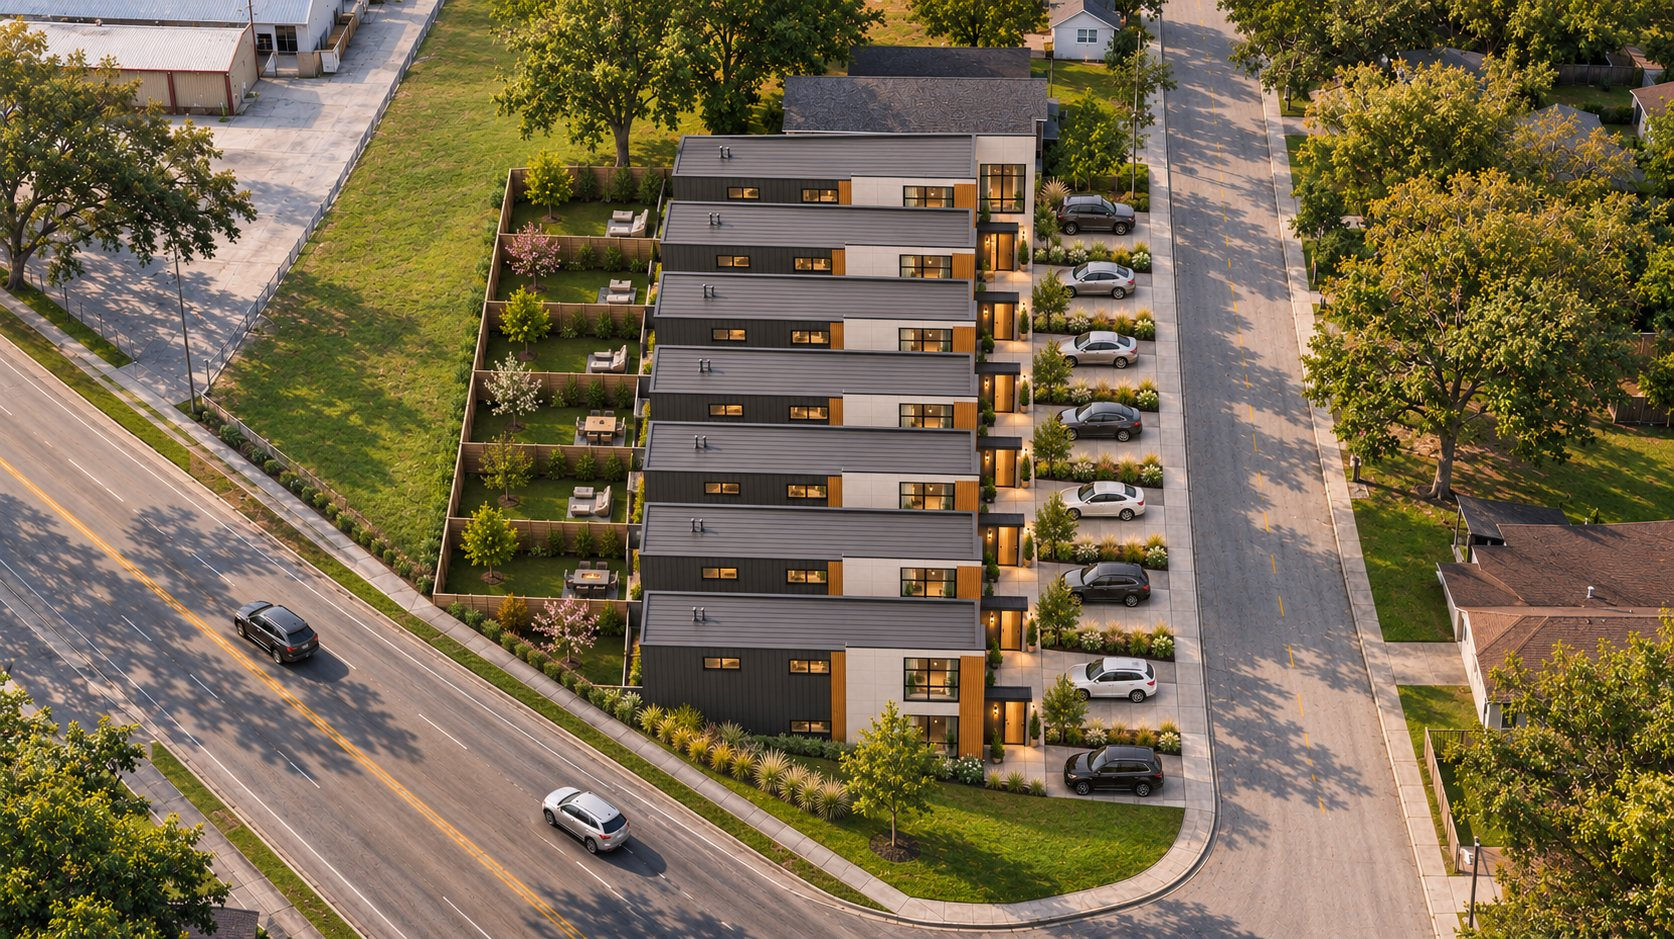
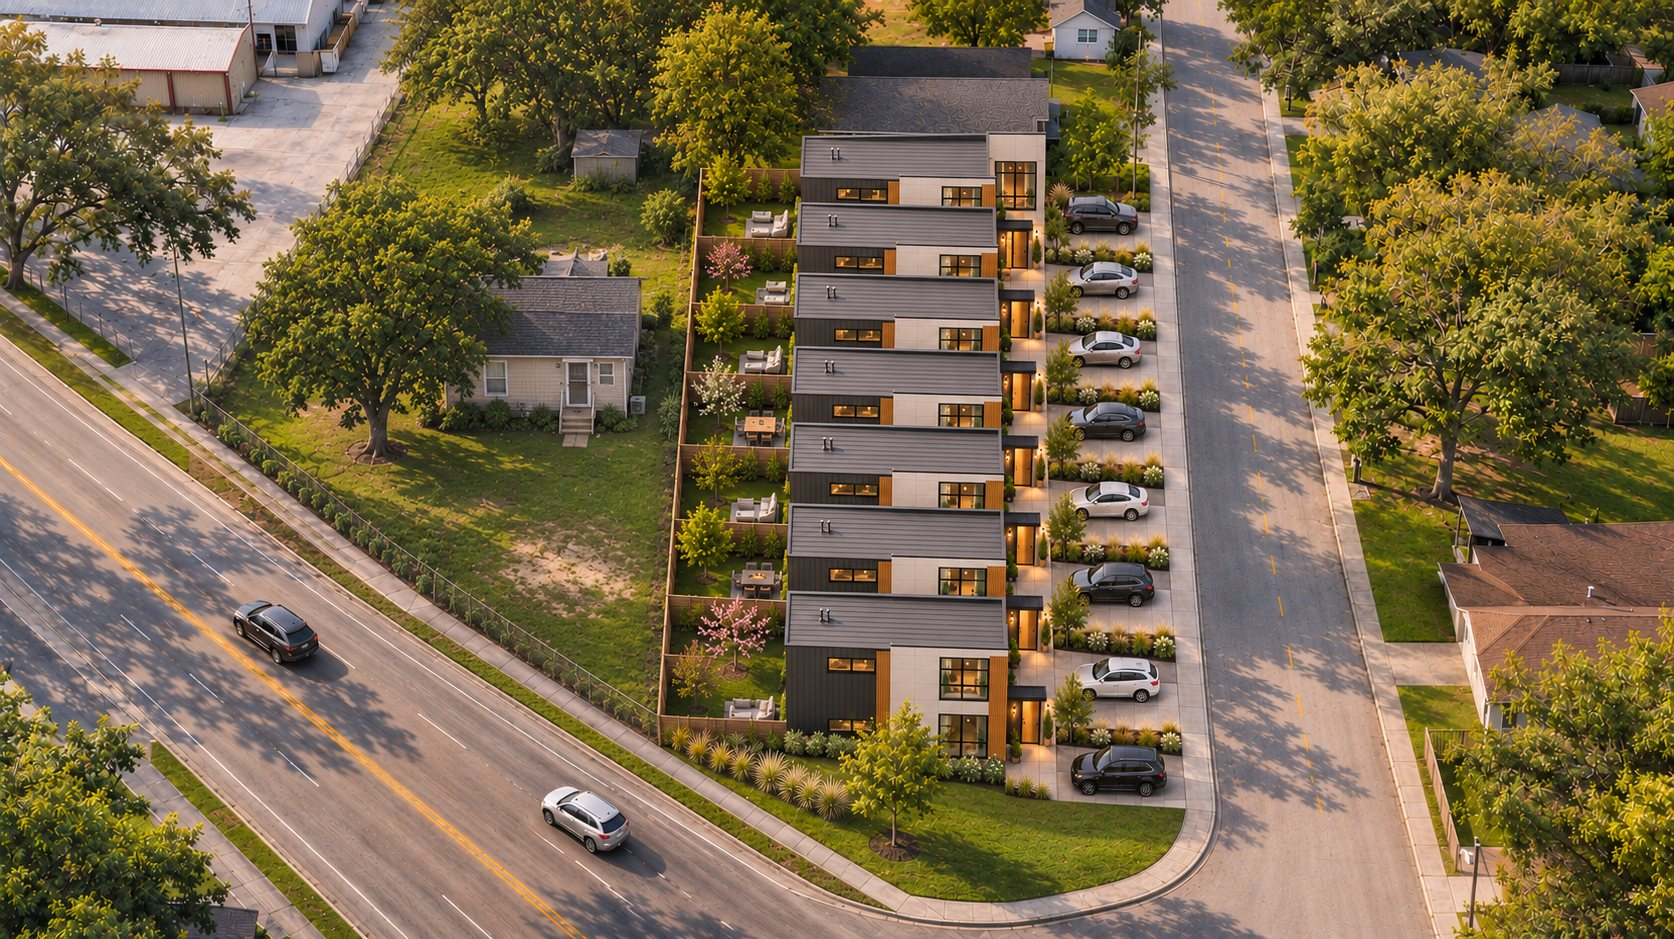
Keep Tuskegee concept within rear property boundary

diff --git a/landev2/index.html b/landev2/index.html
@@ -33,7 +33,7 @@
     const esc=s=>String(s).replace(/[&<>'"]/g,c=>({'&':'&amp;','<':'&lt;','>':'&gt;',"'":'&#39;','"':'&quot;'}[c]));
     const visualItems=p=>[
       {label:'Ubicación',src:p.id==='tuskegee' ? 'assets/location/tuskegee/01-mapa-regional.svg' : `assets/location/${p.id}/01-mapa-regional.webp`,alt:`Mapa regional documental de ${p.title}`,fit:'contain',caption:p.id==='tuskegee' ? 'Mapa regional · OpenStreetMap contributors · ubicación verificada en Google Maps · referencia regional, no survey' : `Mapa regional · USGS The National Map · ${p.parcel} · referencia GIS, no survey ni accesos aprobados`},
-      {label:p.id==='tuskegee'?'Implantación':'Satelital',src:p.id==='tuskegee' ? 'assets/tuskegee/implantacion-conceptual.jpg' : `assets/location/${p.id}/02-acercamiento-real.webp`,alt:p.id==='tuskegee' ? `Implantación arquitectónica conceptual para ${p.title}` : `Vista satelital documental de ${p.title}`,fit:'contain',caption:p.id==='tuskegee' ? 'Implantación conceptual de 8 lotes angostos con frente directo a Tuskegee St · fondos hacia W Montgomery · requiere test-fit, survey y subdivisión; no aprobado' : `Vista satelital USGS / USDA · fecha de captura variable · ${p.parcel} · polígono GIS, no survey`},
+      {label:p.id==='tuskegee'?'Implantación':'Satelital',src:p.id==='tuskegee' ? 'assets/tuskegee/implantacion-conceptual.jpg' : `assets/location/${p.id}/02-acercamiento-real.webp`,alt:p.id==='tuskegee' ? `Implantación arquitectónica conceptual para ${p.title}` : `Vista satelital documental de ${p.title}`,fit:'contain',caption:p.id==='tuskegee' ? 'Implantación conceptual de 8 lotes angostos con frente directo a Tuskegee St · lindero posterior con terreno vecino, sin acceso a W Montgomery · requiere test-fit, survey y subdivisión; no aprobado' : `Vista satelital USGS / USDA · fecha de captura variable · ${p.parcel} · polígono GIS, no survey`},
       {label:p.id==='tuskegee'?'Plano recibido':'Replat propuesto',src:p.id==='tuskegee' ? 'assets/tuskegee/plano-recibido.jpg' : p.id==='hanfro' ? 'assets/hanfro/replat-propuesto-v3.png' : p.id==='dewalt' ? 'assets/dewalt/replat-propuesto-v3.png' : p.id==='marjorie' ? 'assets/marjorie/replat-propuesto-v3.png' : `assets/${p.id}/replat-propuesto-v2.webp`,alt:p.id==='tuskegee' ? 'Plano recibido con los dos predios de Tuskegee resaltados en naranja' : `Replat bidimensional conceptual propuesto para ${p.title}`,fit:'contain',caption:p.id==='tuskegee' ? 'Plano proporcionado por el cliente · dos predios resaltados en naranja · cotas impresas por confirmar con survey y título' : p.id==='hanfro' ? 'Test-fit sobre geometría GIS HCAD · 3 lotes conceptuales con áreas y frentes aproximados · huellas de 28 × 26 ft · zona de revisión de esquina · no es survey ni plat registrado; cabida, building lines, accesos, estacionamiento, servicios y subdivisión pendientes' : p.id==='dewalt' ? 'Polígono GIS HCAD real · predio angosto y profundo · 4 huellas conceptuales en secuencia longitudinal con acceso compartido por validar · cotas GIS, no survey' : p.id==='marjorie' ? 'Polígono GIS HCAD real sin espejo · esquina recortada al suroeste · 3 huellas conceptuales en secuencia longitudinal · acceso compartido y calle lateral por validar' : `Replat 2D conceptual propuesto por NorthReach · ${p.lots} ${p.id==='cherokee'?'viviendas':'lotes'} · no a escala · pendiente de survey, accesos, servicios, subdivisión y feasibility · no aprobado`},
       {label:'Fachada',src:p.id==='tuskegee' ? 'assets/tuskegee/fachada-conceptual.jpg' : `assets/${p.id}/01-fachada.webp`,alt:`Fachada conceptual para ${p.title}`,fit:'contain',caption:p.id==='tuskegee' ? 'Frente conceptual de 8 viviendas angostas orientadas hacia Tuskegee St · cabida y arquitectura sujetas a feasibility y diseño final' : 'Concepto arquitectónico · fachada ilustrativa · no aprobado'},
       {label:'Niveles',src:p.id==='tuskegee' ? 'assets/tuskegee/niveles-conceptuales.jpg' : `assets/${p.id}/02-tres-niveles.webp`,alt:`Niveles conceptuales para ${p.title}`,fit:'contain',caption:p.id==='tuskegee' ? 'Unidad representativa de tres niveles para lote angosto · distribución ilustrativa, no son planos constructivos' : 'Concepto arquitectónico · organización de niveles · no aprobado'},
